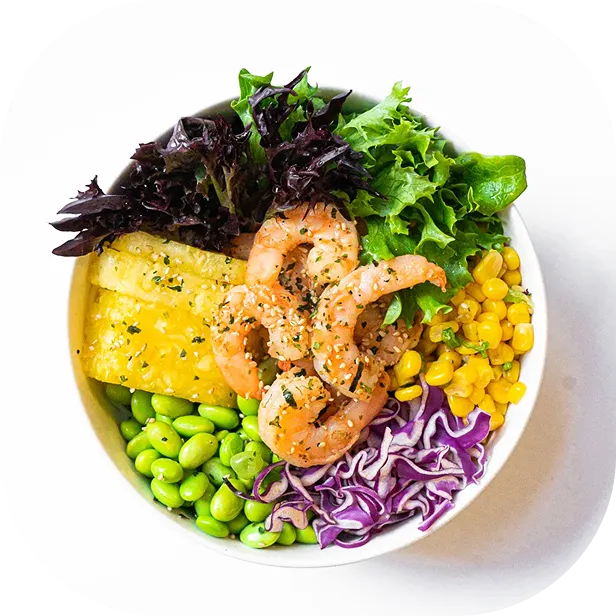
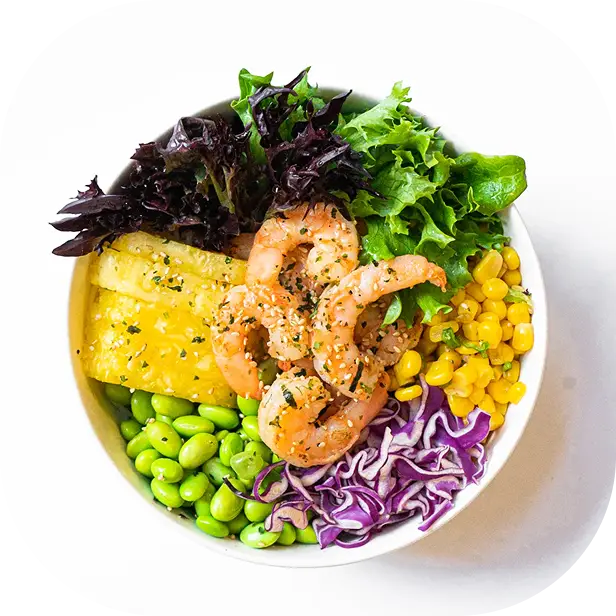
Updates

diff --git a/index.html b/index.html
@@ -5,9 +5,9 @@
 		<meta name="viewport" content="width=device-width, initial-scale=1.0">
 		<link rel="shortcut icon" href="./assets/img/favicon.ico">
 		<title>Home</title>
-		<script type="module" crossorigin="" src="./js/index.min.js?v=1767536902726"></script>
-		<link rel="modulepreload" crossorigin="" href="./js/common.min.js?v=1767536902726">
-		<link rel="stylesheet" crossorigin="" href="./css/index.min.css?v=1767536902726">
+		<script type="module" crossorigin="" src="./js/index.min.js?v=1767537522930"></script>
+		<link rel="modulepreload" crossorigin="" href="./js/common.min.js?v=1767537522930">
+		<link rel="stylesheet" crossorigin="" href="./css/index.min.css?v=1767537522930">
 	</head>
 	<body>
 		<div class="wrapper">
@@ -20,29 +20,30 @@
 				<section data-fls-index="" class="index">
 					<h1 class="title">Hello World</h1>
 					<picture>
-						<source media="(max-width: 600px)" srcset="./assets/img/food-bowl-600.webp" type="image/webp">
+						<source media="(max-width: 479px)" srcset="./assets/img/food-bowl-479.webp" type="image/webp">
+						<source media="(max-width: 991px)" srcset="./assets/img/food-bowl-991.webp" type="image/webp">
 						<img alt="A vibrant salad bowl filled with roasted vegetables, chickpeas, and creamy ricotta cheese." src="./assets/img/food-bowl.webp">
 					</picture>
 					<picture>
-						<source media="(max-width: 600px)" srcset="./assets/img/menu/our-menu-600.webp" type="image/webp">
-						<source media="(max-width: 1200px)" srcset="./assets/img/menu/our-menu-1200.webp" type="image/webp">
+						<source media="(max-width: 479px)" srcset="./assets/img/menu/our-menu-479.webp" type="image/webp">
+						<source media="(max-width: 991px)" srcset="./assets/img/menu/our-menu-991.webp" type="image/webp">
 						<img alt="display of fresh ingredients including tomatoes, onions, and greens." src="./assets/img/menu/our-menu.webp">
 					</picture>
 					<picture>
-						<source media="(max-width: 600px)" srcset="./assets/img/about/about-us-600.webp" type="image/webp">
-						<source media="(max-width: 1200px)" srcset="./assets/img/about/about-us-1200.webp" type="image/webp">
+						<source media="(max-width: 479px)" srcset="./assets/img/about/about-us-479.webp" type="image/webp">
+						<source media="(max-width: 991px)" srcset="./assets/img/about/about-us-991.webp" type="image/webp">
 						<img alt="Close-up of the Buddha Bowl logo on a sidewalk sign." src="./assets/img/about/about-us.webp">
 					</picture>
 					<picture>
-						<source media="(max-width: 600px)" srcset="./assets/img/menu/food-items/california-love-600.webp" type="image/webp">
+						<source media="(max-width: 479px)" srcset="./assets/img/menu/food-items/california-love-479.webp" type="image/webp">
 						<img alt="A fresh salad bowl with a variety of vegetables and grilled chicken strips." src="./assets/img/menu/food-items/california-love.webp">
 					</picture>
 					<picture>
-						<source media="(max-width: 600px)" srcset="./assets/img/menu/food-items/hawaian-paradise-600.webp" type="image/webp">
+						<source media="(max-width: 479px)" srcset="./assets/img/menu/food-items/hawaian-paradise-479.webp" type="image/webp">
 						<img alt="A healthy shrimp bowl with a mix of greens, corn, and pineapple." src="./assets/img/menu/food-items/hawaian-paradise.webp">
 					</picture>
 					<picture>
-						<source media="(max-width: 600px)" srcset="./assets/img/menu/food-items/pork-desire-600.webp" type="image/webp">
+						<source media="(max-width: 479px)" srcset="./assets/img/menu/food-items/pork-desire-479.webp" type="image/webp">
 						<img alt="A colorful bowl showcasing traditional Vietnamese cuisine with fresh ingredients." src="./assets/img/menu/food-items/pork-desire.webp">
 					</picture>
 				</section>

diff --git a/css/index.min.css b/css/index.min.css
@@ -1,1 +1,1 @@
-*{border:0;margin:0;padding:0}*,:after,:before{box-sizing:border-box}:after,:before{display:inline-block}body,html{height:100%}body{line-height:1;scrollbar-gutter:stable;-ms-text-size-adjust:100%;-moz-text-size-adjust:100%;-webkit-text-size-adjust:100%;-webkit-font-smoothing:antialiased;-moz-osx-font-smoothing:grayscale}button,input,textarea{background-color:transparent;color:inherit;font-family:inherit;font-size:inherit;line-height:inherit}input,textarea{width:100%}label{display:inline-block}button,option,select{cursor:pointer}a{color:inherit;display:inline-block;text-decoration:none}ul li{list-style:none}img{height:auto;max-width:100%;vertical-align:middle}h1,h2,h3,h4,h5,h6{font-size:inherit;font-weight:inherit}address{font-style:normal}body{color:#000;font-size:1rem;min-width:20rem}[data-fls-scrolllock] body{overflow:hidden;overscroll-behavior:none;touch-action:none}.wrapper{display:flex;flex-direction:column;min-height:100%;overflow:clip}.wrapper>main{flex:1 1 auto}.wrapper>*{min-width:0}[class*=__container]{margin:0 auto;max-width:75rem;padding-left:.9375rem;padding-right:.9375rem}
+*{border:0;margin:0;padding:0}*,:after,:before{box-sizing:border-box}:after,:before{display:inline-block}body,html{height:100%}body{line-height:1;scrollbar-gutter:stable;-ms-text-size-adjust:100%;-moz-text-size-adjust:100%;-webkit-text-size-adjust:100%;-webkit-font-smoothing:antialiased;-moz-osx-font-smoothing:grayscale}button,input,textarea{background-color:transparent;color:inherit;font-family:inherit;font-size:inherit;line-height:inherit}input,textarea{width:100%}label{display:inline-block}button,option,select{cursor:pointer}a{color:inherit;display:inline-block;text-decoration:none}ul li{list-style:none}img{height:auto;max-width:100%;vertical-align:middle}h1,h2,h3,h4,h5,h6{font-size:inherit;font-weight:inherit}address{font-style:normal}body{color:#000;font-size:1rem;min-width:20rem}[data-fls-scrolllock] body{overflow:hidden;overscroll-behavior:none;touch-action:none}.wrapper{display:flex;flex-direction:column;min-height:100%;overflow:clip}.wrapper>main{flex:1 1 auto}.wrapper>*{min-width:0}[class*=__container]{margin:0 auto;max-width:71.875rem;padding-left:.9375rem;padding-right:.9375rem}

diff --git a/css/dev/index.css b/css/dev/index.css
@@ -97,7 +97,7 @@ body {
 }
 
 [class*=__container] {
-  max-width: 75rem;
+  max-width: 71.875rem;
   margin: 0 auto;
   padding-left: 0.9375rem;
   padding-right: 0.9375rem;
